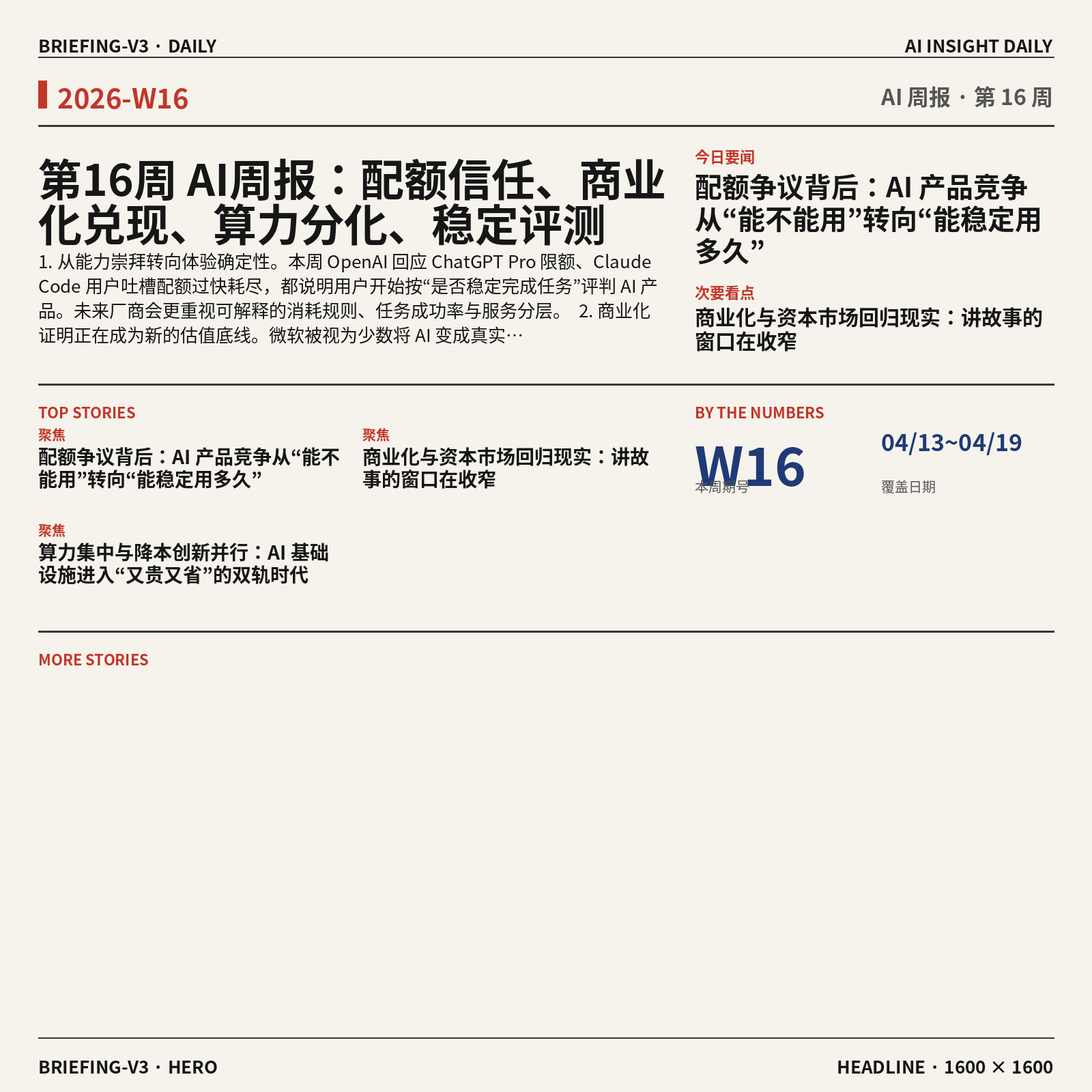
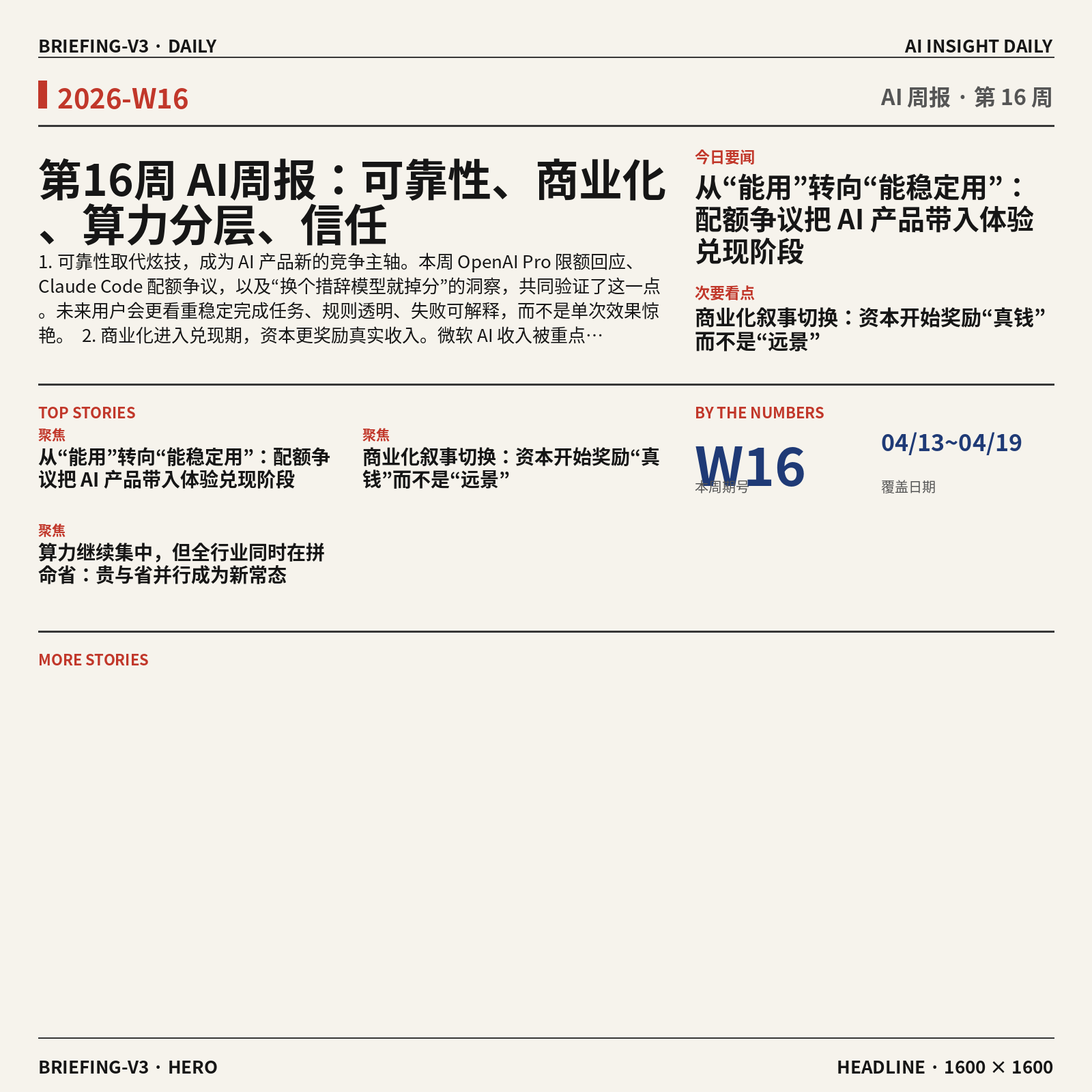
feat: 详细图谱折叠展开 + details 样式

diff --git a/layouts/_partials/scripts/mermaid.html b/layouts/_partials/scripts/mermaid.html
@@ -140,4 +140,41 @@
   rx: 8;
   ry: 8;
 }
+/* Collapsible detail diagram */
+.hextra-content details {
+  margin: 1rem 0;
+  border: 1px solid #e2e8f0;
+  border-radius: 0.5rem;
+  overflow: hidden;
+}
+.dark .hextra-content details {
+  border-color: #374151;
+}
+.hextra-content details summary {
+  padding: 0.75rem 1rem;
+  cursor: pointer;
+  font-weight: 600;
+  font-size: 0.9rem;
+  color: #3b82f6;
+  background: #f8fafc;
+  user-select: none;
+  list-style: none;
+}
+.hextra-content details summary::before {
+  content: "▶ ";
+  font-size: 0.8rem;
+}
+.hextra-content details[open] summary::before {
+  content: "▼ ";
+}
+.dark .hextra-content details summary {
+  color: #60a5fa;
+  background: #1e293b;
+}
+.hextra-content details[open] summary {
+  border-bottom: 1px solid #e2e8f0;
+}
+.dark .hextra-content details[open] summary {
+  border-bottom-color: #374151;
+}
 </style>

diff --git a/content/cn/blog/weekly/2026-W16.md b/content/cn/blog/weekly/2026-W16.md
@@ -1,5 +1,5 @@
 ---
-title: "第16周 AI周报：配额信任、商业化兑现、算力分化、稳定评测"
+title: "第16周 AI周报：可靠性、商业化、算力分层、信任"
 date: 2026-04-13T00:00:00+08:00
 tags: ["周报", "2026"]
 description: "2026-04-13 ~ 2026-04-19 AI行业周度综合分析"
@@ -15,92 +15,218 @@ description: "2026-04-13 ~ 2026-04-19 AI行业周度综合分析"
 
 ## 本周聚焦
 
-### 配额争议背后：AI 产品竞争从“能不能用”转向“能稳定用多久”
+### 从“能用”转向“能稳定用”：配额争议把 AI 产品带入体验兑现阶段
 
 ```mermaid
 graph LR
-    A[套餐升级] -->|却遇限制| B[配额争议] -->|暴露问题| C[体验不稳] -->|最终指向| D[信任流失]
-    classDef blue fill:#dbeafe,stroke:#3b82f6,color:#111827
-    classDef yellow fill:#fef3c7,stroke:#f59e0b,color:#111827
-    classDef green fill:#d1fae5,stroke:#10b981,color:#111827
-    class A blue
-    class B,C yellow
-    class D green
+A[Pro限额争议] -->|暴露| B[体验不确定]
+B -->|削弱| C[用户信任]
+C -->|倒逼| D[稳定交付]
+classDef blue fill:#dbeafe,stroke:#3b82f6
+classDef yellow fill:#fef3c7,stroke:#f59e0b
+classDef green fill:#d1fae5,stroke:#10b981
+class A,B blue
+class C yellow
+class D green
 ```
 
-本周最值得重视的一条线索，不是某个模型又刷新了能力上限，而是 OpenAI 员工回应新版 ChatGPT Pro 套餐使用限制，同时 Claude Code 用户也反馈，所谓 Pro Max 的 5 倍配额能在 1.5 小时内烧完。两件事放在一起看，说明市场矛盾已经从“AI 强不强”转移到“付费之后还能不能放心依赖”。
+<details>
+<summary>展开详细图谱</summary>
 
-这件事重要，是因为 AI 产品正在越过尝鲜阶段，进入“用户拿它做事”的阶段。对普通用户来说，买会员不是为了拥有某个抽象的模型资格，而是为了获得一种确定性：我今天要写方案、做分析、跑代码、做语音内容时，它能不能稳定完成。如果平台宣传很强，但真实使用中频繁碰到额度模糊、消耗过快、失败原因不清，用户就会迅速从“觉得先进”转为“觉得不靠谱”。在软件行业里，能力上限决定传播，稳定下限决定续费；AI 也开始进入这个规律。
+```mermaid
+graph TD
+subgraph 事件
+A[OpenAI员工回应新版ChatGPT Pro使用限制]
+B[Claude Code用户称5倍配额1.5小时烧完]
+C[配额说明与实际消耗感知存在落差]
+D[提示词稍变模型表现就波动]
+end
+subgraph 影响
+E{付费预期被打破}
+F{用户难判断一次任务是否能完成}
+G{“模型强”不再等于“产品好用”}
+H{企业与个人开始关注稳定性与透明度}
+end
+subgraph 启示
+I((AI产品竞争转向可兑现体验))
+J((可靠性、限额透明、失败解释变成关键能力))
+K((评测标准需覆盖不同表述与长流程任务))
+end
+A -->|引发| C
+B -->|放大| C
+C -->|导致| E
+D -->|叠加| F
+E -->|传导| G
+F -->|加剧| G
+G -->|推动| H
+H -->|指向| I
+I -->|要求| J
+I -->|要求| K
+classDef blue fill:#dbeafe,stroke:#3b82f6
+classDef yellow fill:#fef3c7,stroke:#f59e0b
+classDef green fill:#d1fae5,stroke:#10b981
+class A,B,C,D blue
+class E,F,G,H yellow
+class I,J,K green
+```
 
-对行业来说，这意味着竞争标准在升级。过去，厂商靠排行榜、演示视频和少量惊艳案例就能吸引注意力；现在，真正影响口碑的是更朴素的几个问题：一次任务平均要花多少配额？长任务会不会中途掉线？同样的钱能完成多少件事？失败时能不能解释为什么失败？这些问题看似不性感，但它们决定的是商业化留存，而不是流量热度。
+</details>
 
-更深一层看，配额争议还暴露了 AI 产品的一个结构性问题：底层成本依然高且波动大，前端又试图用订阅制承诺“高级体验”，两者之间天然紧张。尤其当多轮推理、代码任务、语音与图像等高消耗场景变多，过去那种模糊的“更多访问权”描述很容易失效。接下来，行业大概率会出现两种变化：一类公司继续做高溢价但强限制的会员；另一类公司则会把消耗、速度、成功率讲得更透明，用“可预期”换信任。后者未必更炫，但更接近成熟市场。
+本周最值得重视的，不是又一个模型参数刷新，而是 OpenAI 员工回应新版 ChatGPT Pro 套餐限制、以及 Claude Code 用户抱怨“5 倍配额 1.5 小时就用完”这两件事，把行业一个更现实的问题彻底暴露出来：用户付费后买到的到底是什么。过去大家默认买的是“更强模型的使用资格”，现在越来越多人发现，真正想买的是“我这件事今天到底能不能顺利做完”的确定性。
 
-对我们这样的 Agent 平台方向，这条线索尤其关键。用户未来不会只问“你接了哪些模型”，而会问“我这个任务到底能不能稳定做完，失败了怎么补救，为什么推荐这个方案”。这也说明，真正有价值的并不是替别人卖模型，而是把额度、质量、成功率、失败解释这些原本分散且不透明的成本，转化成用户能理解、能比较、能信任的产品体验。
+这件事为什么重要？因为 AI 产品正在从尝鲜工具，进入生产力消费品阶段。只要进入这个阶段，评价标准就会变化。用户不再只看一次回答惊不惊艳，而会关心配额怎么扣、长任务会不会中途断、同样意思换个说法为什么结果差很多、付费之后能否稳定复现上次效果。日报里的行业洞察已经点出这一点：竞争不只是“强不强”，而是“付费后到底能稳定用多久”。这其实意味着行业的比拼重心，从模型能力展示，开始转向产品承诺兑现。
 
-### 商业化与资本市场回归现实：讲故事的窗口在收窄
+对行业意味着什么？第一，可靠性会成为新的产品护城河。这里的可靠性，不只是模型答对率，而是包括限额透明、消耗可预期、失败原因可解释、不同表述下表现稳定。第二，评测体系会升级。过去的榜单大多像考试分数，但本周提到“换个措辞和格式就明显掉分”，说明高分不等于真实可交付。未来谁能建立更贴近真实任务流的评测，谁就更接近商业价值。第三，用户信任会进一步分层。头部模型仍强，但如果体验规则复杂、边界模糊，平台型机会反而更大，因为用户会需要一个能帮自己选择、比较、兜底的中间层。
+
+### 商业化叙事切换：资本开始奖励“真钱”而不是“远景”
 
 ```mermaid
 graph LR
-    A[微软增收] -->|形成样板| B[收入验证] -->|进一步影响| C[资本判断] -->|倒逼企业| D[上市准备]
-    classDef blue fill:#dbeafe,stroke:#3b82f6,color:#111827
-    classDef yellow fill:#fef3c7,stroke:#f59e0b,color:#111827
-    classDef green fill:#d1fae5,stroke:#10b981,color:#111827
-    class A blue
-    class B,C yellow
-    class D green
+A[微软AI收入兑现] -->|验证| B[商业化标准提高]
+B -->|影响| C[资本判断收紧]
+C -->|推动| D[上市与收入优先]
+classDef blue fill:#dbeafe,stroke:#3b82f6
+classDef yellow fill:#fef3c7,stroke:#f59e0b
+classDef green fill:#d1fae5,stroke:#10b981
+class A blue
+class B,C yellow
+class D green
 ```
 
-第二条主线，是微软已经被市场视为少数真正把 AI 变成收入的大厂，同时中国 AI 创企 StepFun 拟拆除离岸架构，为 IPO（首次公开募股）铺路。这两个事件一个来自成熟巨头，一个来自创业公司，但共同指向同一件事：AI 行业正在从“远景想象”转向“财务兑现”。
+<details>
+<summary>展开详细图谱</summary>
 
-为什么这件事重要？因为过去两年，AI 行业里最值钱的是叙事能力：谁更像下一代平台，谁更像基础设施入口，谁更接近 AGI（通用人工智能，指能完成广泛任务的更通用智能）。但当资本市场开始重新要求收入、利润率、合规结构和上市路径时，单靠宏大叙事就不够了。微软之所以被高看，不是因为它最会讲未来，而是因为它已经证明，AI 能嵌进现有产品和销售体系，变成客户愿意持续付钱的业务。StepFun 调整架构，则说明创业公司也感受到同样压力：如果未来要进入公开市场，仅有技术亮点不够，公司结构、资本路径和商业证明都要提前准备。
+```mermaid
+graph TD
+subgraph 事件
+A[微软已把AI转成真实收入]
+B[市场将其视为少数兑现者]
+C[StepFun拟拆除离岸架构为IPO铺路]
+D[行业从讲未来转向讲收入与资本市场路径]
+end
+subgraph 影响
+E{估值逻辑从想象力转向现金流证明}
+F{创业公司需回答谁付费、为何持续付费}
+G{组织与公司结构开始为融资上市服务}
+H{无法自证商业化的公司承压}
+end
+subgraph 启示
+I((行业进入兑现期))
+J((产品价值必须脱离“只是调用模型”))
+K((平台层、流程层、信任层价值上升))
+end
+A -->|证明| E
+B -->|强化| E
+C -->|体现| G
+D -->|加速| H
+E -->|倒逼| F
+F -->|关联| H
+G -->|说明| I
+H -->|推动| I
+I -->|要求| J
+J -->|导向| K
+classDef blue fill:#dbeafe,stroke:#3b82f6
+classDef yellow fill:#fef3c7,stroke:#f59e0b
+classDef green fill:#d1fae5,stroke:#10b981
+class A,B,C,D blue
+class E,F,G,H yellow
+class I,J,K green
+```
 
-这对行业意味着一个明显变化：估值逻辑正在分层。第一层是能不能真正收钱，第二层是收入是不是可持续，第三层才是未来想象力。也就是说，不能自证商业化的公司，即使模型能力不错，也可能越来越难拿到高溢价；反过来，那些未必掌握最强基础模型、但能把 AI 嵌入真实流程并形成稳定付费的公司，地位会迅速提升。
+</details>
 
-还有一个常被忽视的信号：这会加速“中间层”的价值重估。因为不是每家公司都能像微软那样拥有分发渠道，也不是每家公司都适合押注自研大模型。于是，帮助用户完成模型选择、效果比较、成本控制、结果验证的那一层，会变得更有现实意义。资本市场越来越关心“你到底解决了什么问题”，这其实对平台型机会是利好——前提是平台真的降低了决策成本，而不是只做模型列表页。
+第二条主线，是商业化标准明显变严。日报中两件事形成了很强的对照：一边是微软已经被市场视为少数把 AI 变成真金白银收入的大厂；另一边是中国 AI 创企 StepFun 拟拆除离岸架构，为 IPO 铺路。这说明行业叙事正在变化：以前资本主要押注“谁最可能成为未来平台”，现在更看重“谁已经证明自己能赚钱，谁具备进入资本市场的组织准备”。
 
-换句话说，本周这条线索提醒我们，AI 创业接下来要拼的不只是技术前沿，还有商业解释力：为什么客户需要你，为什么不是直接买大厂 API（应用程序接口，指软件之间的调用方式），为什么你的位置不会被上游吞掉。谁能把这些问题答清楚，谁才更接近下一阶段的胜出者。
+为什么这件事重要？因为它直接改变了创业公司的生存环境。过去只要增长快、模型故事大、团队明星化，就容易拿到高估值；现在如果收入路径不清晰，或者产品价值无法被客户持续购买，融资与市场信心都会变弱。微软的案例给出的不是简单的利好，而是一个新的行业标尺：AI 不再被单独看成前沿技术，而被看成必须进入财务报表的业务。StepFun 的动作也说明，连仍处发展中的公司，都开始按照资本市场的要求整理公司结构，这背后是“商业兑现时间窗正在缩短”。
 
-### 算力集中与降本创新并行：AI 基础设施进入“又贵又省”的双轨时代
+对行业意味着什么？第一，纯模型叙事进一步贬值。没有商业闭环的能力领先，可能无法长期转化成公司价值。第二，中间层价值会被重新定价。因为最终赚钱的往往不是“会调用模型”本身，而是能把模型变成稳定结果、可管理流程、可计费服务的那一层。第三，市场会更重视可验证的单位经济模型（每服务一个用户是否划算）。这对平台型创业公司是警示，也是机会：如果只能证明“模型可用”，不够；如果能证明“帮用户更低风险地完成任务，并愿意为此持续付费”，价值就更扎实。
+
+### 算力继续集中，但全行业同时在拼命省：贵与省并行成为新常态
 
 ```mermaid
 graph LR
-    A[大单集中] -->|抬高门槛| B[算力分化] -->|反向催生| C[降本方案] -->|重塑竞争| D[平台机会]
-    classDef blue fill:#dbeafe,stroke:#3b82f6,color:#111827
-    classDef yellow fill:#fef3c7,stroke:#f59e0b,color:#111827
-    classDef green fill:#d1fae5,stroke:#10b981,color:#111827
-    class A blue
-    class B,C yellow
-    class D green
+A[CoreWeave拿下大单] -->|推动| B[算力集中]
+B -->|抬高| C[资源门槛]
+C -->|倒逼| D[全行业降本优化]
+classDef blue fill:#dbeafe,stroke:#3b82f6
+classDef yellow fill:#fef3c7,stroke:#f59e0b
+classDef green fill:#d1fae5,stroke:#10b981
+class A blue
+class B,C yellow
+class D green
 ```
 
-第三条主线，是 CoreWeave 靠 Meta 和 Anthropic 大单坐上 AI“房东”位置，英伟达与 Cadence 加深合作，显示芯片设计链条继续抱团；与此同时，开源侧又出现 AirLLM 这类单张 4GB 显卡也能跑 70B 大模型推理的方案，研究侧还有树状稀疏前馈层（通过只激活部分计算路径来降低算力消耗的结构改进）瞄准 Transformer（当前主流大模型架构）算力瓶颈。表面看，一边是巨头继续囤资源，一边是社区拼命省资源，似乎矛盾；其实这恰恰是当前行业的真实状态。
+<details>
+<summary>展开详细图谱</summary>
 
-重要性在于，AI 的基础设施竞争已经不再只是“谁有更多卡”，而是进入“谁能拿到稀缺资源，谁又能把资源用得更省”的双轨博弈。CoreWeave 的崛起说明，最优质算力正在向少数大客户和大平台集中，资源获取本身就成了壁垒。英伟达与 Cadence 的合作则进一步表明，从芯片设计到部署软件，产业链正在更紧地绑定，强者会更强。
+```mermaid
+graph TD
+subgraph 事件
+A[CoreWeave靠Meta和Anthropic大单坐上AI房东位置]
+B[英伟达与Cadence加深合作]
+C[树状稀疏前馈层瞄准Transformer算力瓶颈]
+D[AirLLM让单张4GB显卡也能跑70B推理]
+E[caveman帮助Claude Code省下75% Token]
+end
+subgraph 影响
+F{头部算力资源向少数玩家集中}
+G{芯片设计到云供给链条抱团}
+H{开发者与创业公司更强烈追求降本}
+I{优化手段从模型结构到推理技巧全面铺开}
+end
+subgraph 启示
+J((贵算力与省算力将长期并存))
+K((赢家不只是谁有模型 还包括谁更会分配资源))
+L((调度、路由、成本感知能力价值上升))
+end
+A -->|体现| F
+B -->|强化| G
+C -->|服务| I
+D -->|服务| I
+E -->|服务| H
+F -->|传导| H
+G -->|抬升| F
+H -->|推动| I
+I -->|指向| J
+J -->|要求| K
+K -->|落到| L
+classDef blue fill:#dbeafe,stroke:#3b82f6
+classDef yellow fill:#fef3c7,stroke:#f59e0b
+classDef green fill:#d1fae5,stroke:#10b981
+class A,B,C,D,E blue
+class F,G,H,I yellow
+class J,K,L green
+```
 
-但另一边，AirLLM、caveman 这类项目，以及节省前馈层计算的研究，都说明全行业都在寻找“便宜可用”的替代路径。原因很简单：不是所有需求都值得用最贵的推理方式完成。很多真实场景要的不是极限性能，而是足够好、足够快、足够便宜。于是，行业不会只朝着更大的模型走，也会朝着更精细的资源分配走。
+</details>
 
-这对行业的意义很大。首先，基础模型能力的差距可能继续拉大，因为头部玩家拿得到更好的训练和推理资源；但其次，应用层并不会因此失去机会，反而更需要“成本意识强”的平台来决定什么任务该用高配模型，什么任务该用轻量方案，什么任务能通过提示词（给模型的文字指令）优化、缓存、分步执行来省掉大量成本。真正成熟的 AI 产品，不是永远给用户上最强模型，而是以最合适的资源交付最稳定的结果。
+第三条主线，是资源结构的两极化。本周 CoreWeave 靠 Meta 和 Anthropic 大单巩固“AI 房东”位置，英伟达与 Cadence 加深合作，说明上游算力和芯片设计链条正在继续集中；与此同时，研究和开源社区却在另一端疯狂做同一件事：省。无论是树状稀疏前馈层（通过让部分计算只激活一部分网络来减少算力消耗）、AirLLM 用极低显存跑大模型推理，还是 caveman 通过更简化的表达减少 Token（文本计费单位）消耗，都指向一个事实：算力贵，而且会持续贵。
 
-因此，本周最大的行业现实不是单一方向的乐观或悲观，而是一个更复杂但也更清晰的格局：上游资源继续集中，中游产品必须证明收入，下游用户开始在乎确定性。谁能把这三件事串起来，谁就更接近下一阶段的护城河。
+为什么重要？因为这意味着行业不会简单走向“人人都能便宜用上最强模型”，而是会形成明显分层。顶级公司通过大单锁定资源、通过供应链合作巩固优势；中小团队则必须靠更聪明的工程方法、路由策略和成本控制活下去。这里不存在二选一，正如日报洞察所说，“贵和省会同时存在，不矛盾”。贵的是稀缺资源和头部能力，省的是为了让更多应用能活下来。
+
+对行业意味着什么？第一，平台竞争会越来越像资源分配竞争，而不是单点模型能力竞争。第二，产品层必须具备成本感知能力，知道什么时候值得调用贵模型，什么时候用轻量方案就够。第三，开源和工程优化不会削弱大厂，反而会扩大应用面，因为它们让更多场景能以可承受成本被激活。对创业公司来说，真正的机会不一定在自建最强模型，而是在“如何把不同成本、不同能力的模型组合成一套用户愿意买单的结果”。
 
 ---
 
 ## 信号与噪音
 
-1. CoreWeave 拿下 Meta 和 Anthropic 大单，被进一步视为 AI 时代的“房东”。点评：这说明稀缺算力正在继续向少数服务商集中，应用公司若把竞争力建立在“能租到模型”上，未来会越来越被动。
+1. CoreWeave 靠 Meta 和 Anthropic 大单坐上 AI“房东”位置。点评：这不是单纯的企业新闻，而是上游资源进一步向少数基础设施公司聚集，未来应用公司会更依赖外部算力秩序。
 
-2. 英伟达与 Cadence 深化合作，把 AI 芯片设计链条绑得更紧。点评：这不是普通合作新闻，而是上游生态进一步封闭和协同的信号，意味着硬件优势会更快传导成产品优势。
+2. 英伟达与 Cadence 加深合作，AI 芯片设计链条继续抱团。点评：这说明 AI 竞争已从模型层延伸到芯片设计与验证工具层，头部生态正在形成更难被打穿的协同优势。
 
-3. Palantir CEO 直言 AI“将摧毁”文科类岗位。点评：这类表态有夸张成分，但反映出一个现实——AI 对知识工作者的替代讨论，正在从效率提升转向岗位重构，社会情绪会持续放大。
+3. 微软已经在把 AI 变成真金白银的收入。点评：市场会因此更苛刻地审视其他公司，凡是还停留在“用户很多但收入模糊”的项目，估值弹性都可能下降。
 
-4. 研究者重新给“世界模型”下定义，并明确文生视频不算。点评：行业正在给热门概念降温，避免把所有多模态生成都包装成同一种能力；这有助于市场回到更清晰的技术边界。
+4. StepFun 拟拆除离岸架构，为 IPO 铺路。点评：这表明中国 AI 创业公司也开始从“融资型组织”转向“资本市场型组织”，商业化和合规准备的重要性同步上升。
 
-5. OmniVoice 开源，支持 600 多种语言的高质量语音克隆 TTS（文本转语音）。点评：多语言语音能力门槛正在明显下降，未来语音 Agent 不再只是英语和普通话市场的游戏，小语种与跨语种交互会更快普及。
+5. 研究者给“世界模型”下定义，指出文生视频并不算。点评：这是一个容易被忽视但很关键的信号，说明行业开始清理概念泡沫，未来技术叙事会更强调可验证定义而非营销词。
 
-6. OpenAI 开源 codex-plugin-cc，让 Claude Code 也能调用 Codex。点评：这说明头部厂商之间并非只有封闭竞争，也开始出现围绕开发工作流的互联；真正的战场正在从单模型走向工具链入口。
+6. OmniVoice 开源，支持 600 多种语言的高质量语音克隆 TTS（文本转语音）。点评：多语言语音能力继续下沉到开源社区，意味着语音交互门槛还会下降，但也会加大内容真实性和身份冒用风险。
 
-7. JoyAI-Image、AirLLM、caveman 等开源项目同时出现，分别指向统一多模态图像、低显存推理和 Token（文本消耗单位）节省。点评：开源社区本周没有出现单点爆款，但密集释放出一个信号：大家都在补“可用性”和“成本”这两门课，而不只是追求参数规模。
+7. OpenAI 开源 codex-plugin-cc，让 Claude Code 也能调用 Codex。点评：头部厂商一边竞争，一边又在工具层互相渗透，说明开发者生态的控制权比单一模型封闭更重要。
+
+8. JoyAI-Image 与 AirLLM 等开源项目分别在多模态图像基础模型和低显存推理上推进。点评：一个在扩展能力边界，一个在压低运行门槛，合在一起看，说明应用创新会继续向“更丰富输入、更低部署成本”两端同时展开。
+
+9. Palantir CEO 直言 AI“将摧毁”文科类岗位。点评：这类表态未必能准确预测就业结构，但它强化了一个现实：AI 影响已从技术圈进入组织设计、招聘和岗位定义层面。
 
 ---
 
@@ -108,38 +234,38 @@ graph LR
 
 ```mermaid
 graph LR
-    A[确定性体验] --> B[商业化兑现] --> C[算力继续集中] --> D[平台层增值]
-    E[配额争议] -.-> A
-    F[微软AI收入] -.-> B
-    G[StepFun备IPO] -.-> B
-    H[CoreWeave大单] -.-> C
-    I[AirLLM省显存] -.-> D
-    classDef trend fill:#dbeafe,stroke:#3b82f6,font-weight:bold
-    classDef event fill:#f1f5f9,stroke:#94a3b8
-    class A,B,C,D trend
-    class E,F,G,H,I event
+A[体验兑现] --> B[商业化收紧] --> C[算力分层] --> D[平台价值上移]
+E[Pro限额争议] -.-> A
+F[微软AI收入] -.-> B
+G[CoreWeave大单] -.-> C
+H[AirLLM省显存] -.-> C
+I[多项开源发布] -.-> D
+classDef blue fill:#dbeafe,stroke:#3b82f6,font-weight:bold
+classDef gray fill:#f1f5f9,stroke:#94a3b8
+class A,B,C,D blue
+class E,F,G,H,I gray
 ```
 
-1. 从能力崇拜转向体验确定性。本周 OpenAI 回应 ChatGPT Pro 限额、Claude Code 用户吐槽配额过快耗尽，都说明用户开始按“是否稳定完成任务”评判 AI 产品。未来厂商会更重视可解释的消耗规则、任务成功率与服务分层。
+1. 可靠性取代炫技，成为 AI 产品新的竞争主轴。本周 OpenAI Pro 限额回应、Claude Code 配额争议，以及“换个措辞模型就掉分”的洞察，共同验证了这一点。未来用户会更看重稳定完成任务、规则透明、失败可解释，而不是单次效果惊艳。
 
-2. 商业化证明正在成为新的估值底线。微软被视为少数将 AI 变成真实收入的大厂，StepFun 也开始为 IPO 调整架构，验证了资本市场正在重新按收入与合规来定价。未来纯叙事型项目会承压，能嵌入真实业务流程的平台更容易被高看。
+2. 商业化进入兑现期，资本更奖励真实收入。微软 AI 收入被重点提及，StepFun 为 IPO 调整架构，也说明行业正在从讲故事转向交报表。接下来能获得更高信心的，不是声量最大的公司，而是收入路径清晰、组织准备充分的公司。
 
-3. 算力继续集中，但降本技术同步加速。CoreWeave、英伟达与 Cadence 显示头部资源更集中；AirLLM、树状稀疏前馈层、caveman 又说明全行业都在找更省的办法。未来会形成“头部吃高端、应用层拼优化”的长期格局。
+3. 算力集中与降本优化并行发展。CoreWeave、英伟达与 Cadence 的合作验证资源持续向头部集中；AirLLM、树状稀疏前馈层、caveman 则验证全行业在压缩成本。未来应用层会越来越依赖“分层调用”和“按成本匹配能力”的策略。
 
-4. 开源竞争正从模型本身扩散到工具与接口层。OmniVoice、codex-plugin-cc、JoyAI-Image 等事件表明，开源不只是在复刻模型，而是在补齐语音、多模态、开发工作流的拼图。未来真正有价值的开源能力，可能更多体现在组合效率，而不是单项跑分。
+4. 开源继续把能力下放，但价值重心上移到整合层。OmniVoice、JoyAI-Image、AirLLM、codex-plugin-cc 都说明基础能力越来越容易获得。未来真正稀缺的，不是单个模型接口，而是把多种能力变成可选择、可评价、可信任结果的产品体系。
 
 ---
 
 ## 对我们的启发
 
-产品方向上，第一，不要只展示“可接多少模型”，而要把任务成功率、消耗预估、失败原因、替代方案推荐做成前台能力，因为本周最清晰的行业信号就是用户开始为“确定性”买单。第二，平台评测不应只测一次性表现，应加入“换说法是否仍稳定完成”的鲁棒性（指不同表达下仍能稳定工作的能力）测试。
+产品方向上，第一，要把“稳定完成任务的确定性”做成显性价值，而不是默认能力。用户需要看到每次调用为什么这样选、消耗了什么、失败原因是什么。第二，平台评测不能只看首轮输出质量，更要测不同说法、不同任务长度、不同成本约束下的稳定性。
 
-竞争策略上，第一，别把自己定义成模型搬运层；上游算力和模型都在集中，我们更该占据“选择、比较、验证、信任”这一层。第二，可以优先整合便宜但足够好的模型与开源能力，把“高配模型留给高价值任务”的策略做成产品优势。
+竞争策略上，第一，不要把价值建立在“接了哪些模型”上，这一层会越来越同质化；更重要的是建立选择、比较、回退、复核的产品机制。第二，可以考虑把“成本—效果—稳定性”做成平台的三维比较框架，让用户理解为什么某个方案更值得信任。
 
-时机判断上，第一，资本和市场都在从讲故事转向看收入与留存，这对早期团队是压力，也是窗口：只要能证明真实需求，就比空泛叙事更有说服力。第二，当前行业尚未形成稳定的用户体验标准，谁先把 Agent 使用中的透明度和可预期性做好，谁就有机会抢到心智。
+时机判断上，第一，商业化标准收紧对早期团队是压力，但也意味着只要能证明真实用户价值，反而更容易与空泛叙事拉开差距。第二，算力持续分层说明现在就该建立多模型、多成本档位的产品结构，避免未来被单一供应商或单一价格体系锁死。
 
 ---
 
 ## 本周思考
 
-当用户真正把 Agent 当成“替我完成任务的人”而不是“陪我聊天的模型”时，平台最核心的护城河会是更强的能力，还是更可验证的可靠性？
+当模型能力越来越接近时，用户最终会把信任交给“最强的 AI”，还是交给“最会解释、最能稳定完成任务的平台”？如果答案是后者，我们现在最该积累的核心资产是什么？
